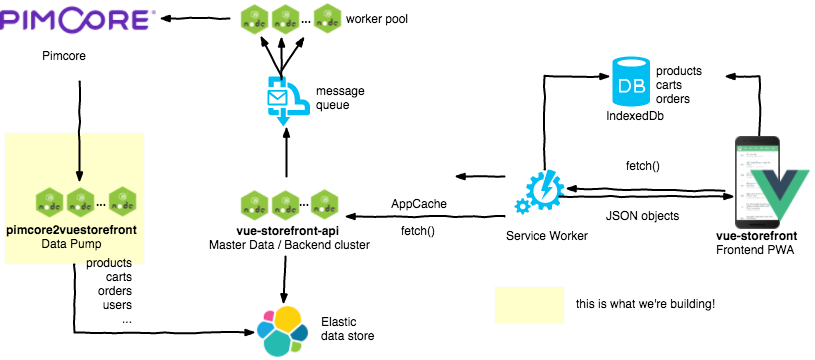
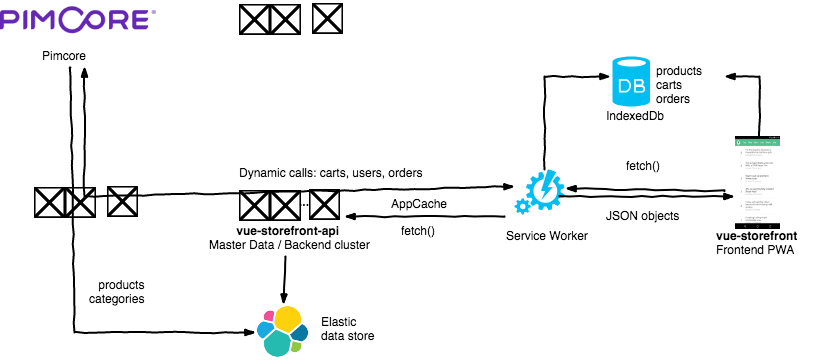
More docs

diff --git a/README.md b/README.md
@@ -93,17 +93,29 @@ lexik_jwt_authentication:
 
 # Data formats and architecture
 As Pimcore is a very extensible Framework, the data structures and format may vary. By default we do support official [CoreShop](http://coreshop.org) data structures.
-For demonstration purposes we do support pretty basic elements of eCommerce Framework data structures:
+For demonstration purposes we do support all the standard entities like:
 - set of required attributes,
 - categories,
 - products: localized attributes, single photo (can be easily extendend), variants, prices.
 
 
-![Pimcore2vuestorefront architecture](doc/pimcore2vuestorefront-architecture.png)
+![Coreshop integration architecture](doc/pimcore2vuestorefront-architecture.png)
 
 # Screenshots
 
 Please visit [Vue Storefront site](http://vuestorefront.io) to check out why it's so cool!
+
+![Admin panel integration](doc/20181204-111321.png)
+This is the standard Pimcore panel where You can edit Your products, categories and assets.
+
+![Category admin panel](doc/20181204-111306.png)
+
+Here is the order as it was transmited from Vue Storefront to Coreshop
+![Order admin panel](doc/20181204-111251.png)
+
+All the products attributes, description, categories assets and other meta data is synchronized with Vue Storefront in real time
+![The frontend integration](doc/20181204-111107.png)
+
 
 
 # Licence 
